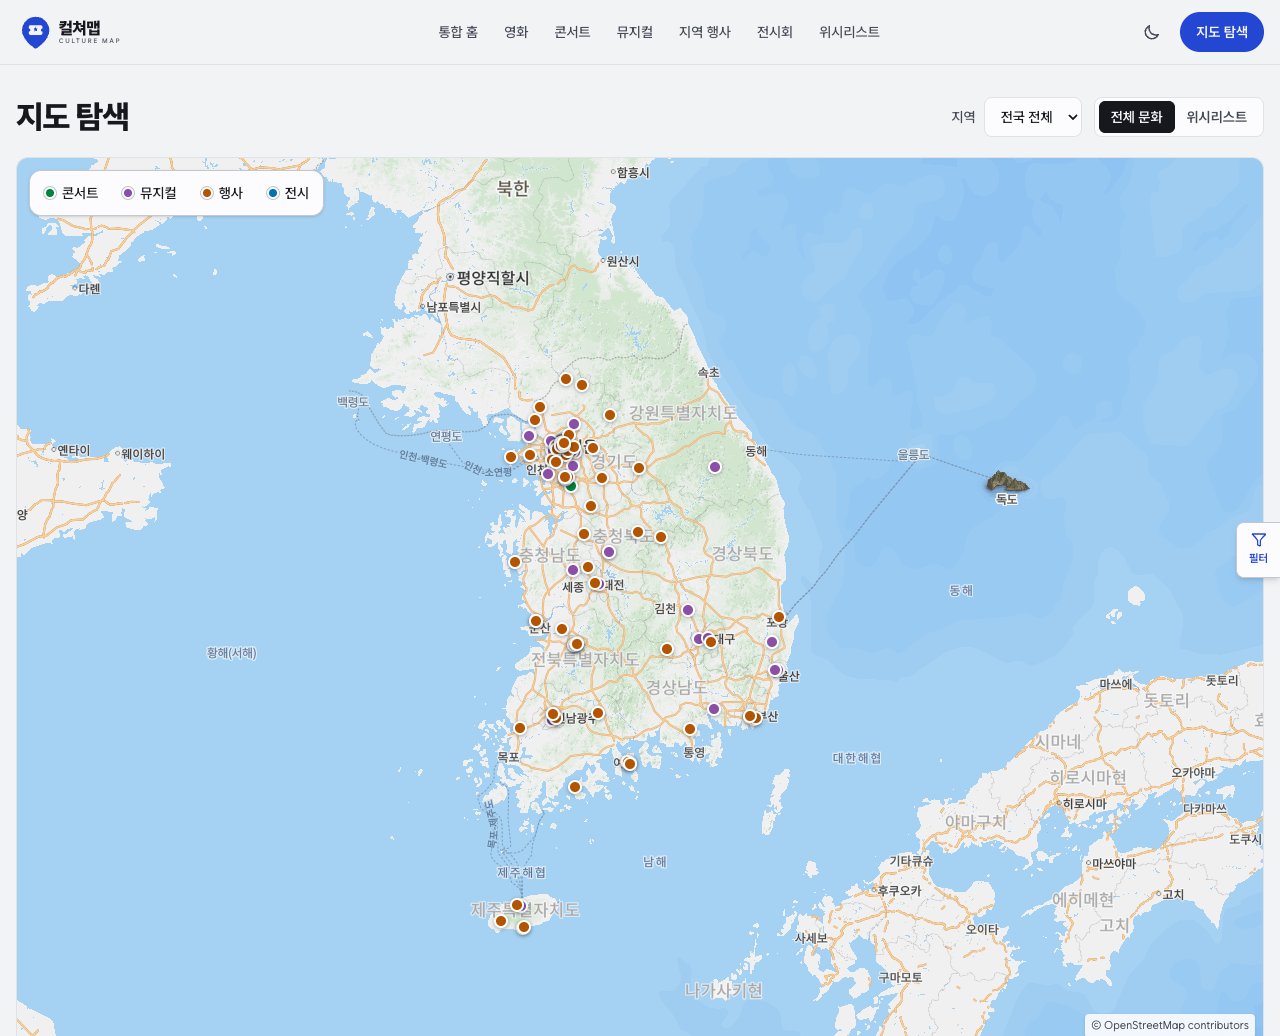
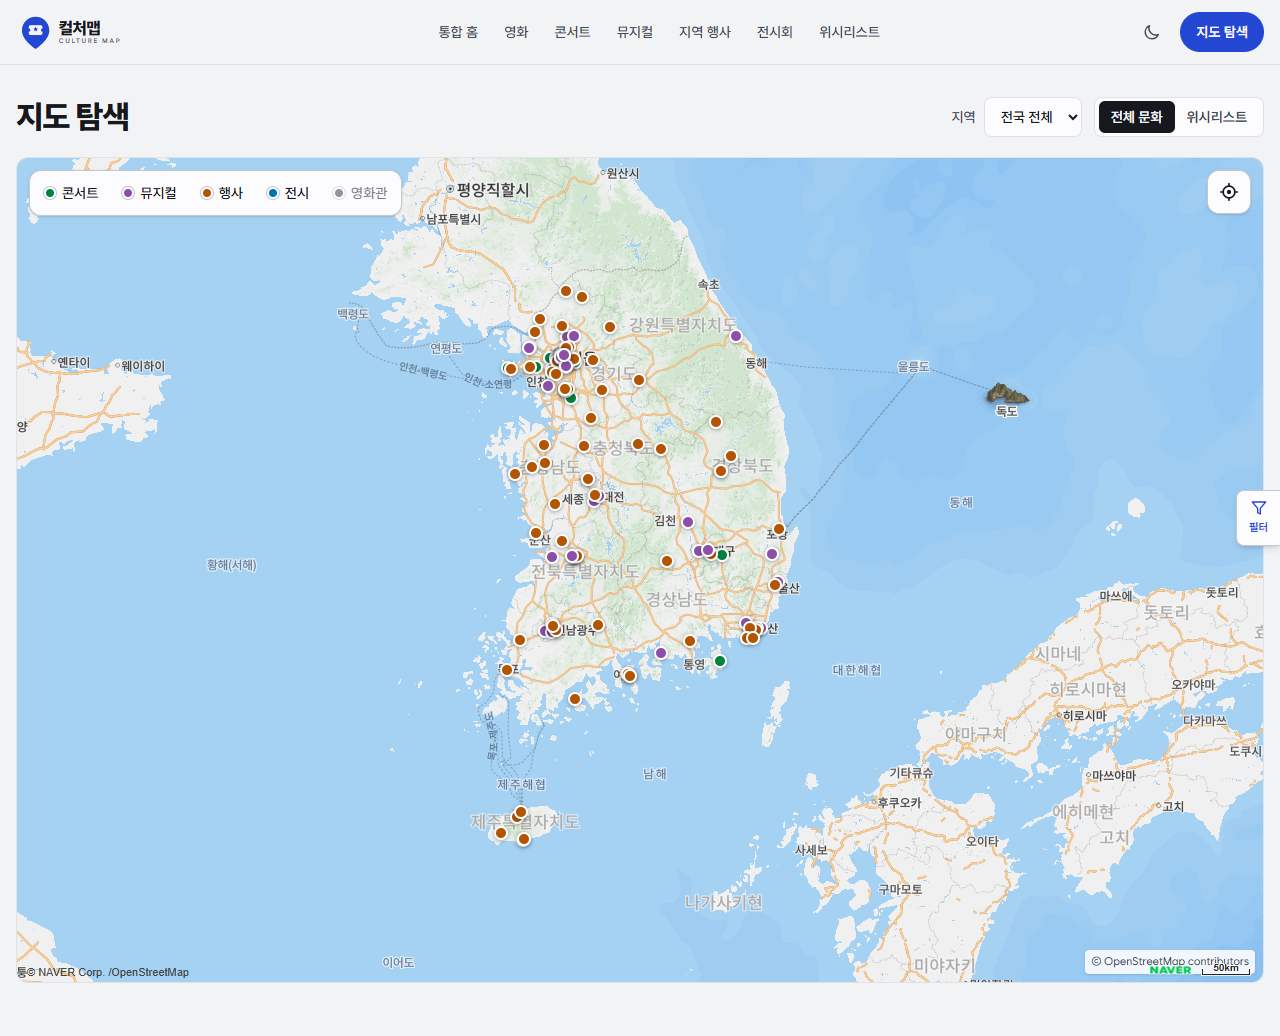
docs: 화면 캡처·와이어프레임을 컬처맵 표기로 갱신하고 README 최종 검수
- 홈(라이트·다크), 지도, 모바일 영화 화면을 배포 사이트에서 다시 캡처
- 와이어프레임 로고 글자를 컬처맵으로 수정
- 지도 기능 설명 간략화, Geolocation·영화관 훅 반영, 상태 흐름도 라벨 정정

diff --git a/README.md b/README.md
@@ -18,10 +18,10 @@
 | `/musicals` | KOPIS 뮤지컬 일정, 가격, 예매처와 상세 링크를 확인합니다. |
 | `/festivals` | 한국관광콘텐츠랩 축제·행사 정보를 날짜와 지역 기준으로 탐색합니다. |
 | `/exhibitions` | 문화포털 문화예술공연 API에서 전시 일정과 관람료 정보를 확인합니다. |
-| `/map` | 전체 문화·위시리스트 모드를 전환하며 비영화 일정을 지도에서 탐색합니다. 콘서트·뮤지컬·축제·전시 카테고리를 복수 토글로 필터링하고, 지역 선택(서울·경기 등 9개 + 전체)으로 범위를 좁힐 수 있습니다. `영화관` 토글을 켜면 영업 중인 CGV·롯데시네마·메가박스·씨네Q 영화관 위치와 상영시간표 링크를 볼 수 있으며, 영화관은 지도를 확대(줌 13 이상)했을 때 화면 근처에 있는 곳만 그립니다. 오른쪽 위 위치 버튼으로 현재 내 위치 주변을 볼 수 있습니다. 좌표가 없으면 장소명·주소를 Photon으로 검색해 위치를 보완합니다. |
+| `/map` | 행사 일정을 지도에서 탐색합니다. 카테고리 복수 토글과 지역 선택(서울·경기 등 9개 + 전체)으로 범위를 좁히고, 위시리스트 모드에서는 저장한 일정만 봅니다. `영화관`을 켜면 CGV·롯데시네마·메가박스·씨네Q 위치와 상영시간표 링크를 보여 주며(지도를 확대했을 때 화면 근처만 표시), 오른쪽 위 버튼으로 내 위치 주변을 볼 수 있습니다. |
 | `/bookmarks` | 카드에서 저장한 문화 일정을 모아보고 위시리스트에서 제거합니다. |
 
-가격과 예매처는 제공 API에 값이 있을 때만 표시합니다. 지도는 영화 대신 영화관 위치를 표시하며(기본은 꺼짐), 데이터에 좌표가 없고 장소 검색에서도 찾지 못한 항목은 마커를 표시하지 않습니다.
+가격과 예매처는 제공 API에 값이 있을 때만 표시합니다. 좌표가 없는 장소는 장소명·주소로 위치를 찾아(Photon) 보완하고, 끝내 찾지 못한 항목은 지도에 표시하지 않습니다.
 
 ## 화면 구성
 
@@ -76,6 +76,7 @@
 - Zustand: 날짜 범위, 지역 필터, 선택 마커, 위시리스트 상태
 - `fast-xml-parser`: KOPIS XML 응답 파싱
 - Naver Maps JavaScript API: 지도와 마커
+- 브라우저 Geolocation API: 내 위치 보기
 - KOBIS, KOPIS, 한국관광콘텐츠랩 TourAPI, 문화포털 API, 행정안전부 영화상영관 API, Photon 지오코더
 - proj4: 영화상영관 TM 좌표를 위경도로 변환
 - JSON Server: 로컬 개발용 데이터 서버 스크립트
@@ -148,7 +149,7 @@ src/
 │   ├── common/          # 헤더, 네비게이션, 날짜 도크, 공통 UI
 │   ├── culture/         # 문화 카드, 목록, 정렬, 카테고리 페이지
 │   └── map/             # 지도, 마커, 상세 패널
-├── hooks/               # 문화 데이터와 Naver 지도 훅
+├── hooks/               # 문화·영화관 데이터, Naver 지도, 클라이언트 렌더링 확인 훅
 ├── store/               # Zustand 필터 및 위시리스트 상태
 └── utils/               # API 연결, 카테고리·지역 상수, 좌표 확인, 날짜, 표시 포맷
 ```
@@ -161,7 +162,7 @@ src/
 | `WeekStrip` | 홈 상단의 주간 날짜 띠입니다. 날짜·빠른 기간 선택으로 필터 상태의 시작일과 종료일을 바꿉니다. |
 | `CultureCategoryPage` | 카테고리 데이터와 정렬, 페이지네이션을 관리합니다. |
 | `DateRangeDock` | 화면 오른쪽(모바일은 아래쪽)에서 날짜 범위와 지역을 바꿉니다. |
-| `NaverMapContainer`, `MapMarker` | 카테고리 복수 토글 필터링(영화관은 직접 켰을 때만 표시), 보이는 항목 중 좌표 없는 항목 Photon 지오코딩, 줌에 따라 점과 핀으로 바뀌는 마커 렌더링을 처리합니다. |
+| `NaverMapContainer`, `MapMarker` | 카테고리 복수 토글 필터링, 좌표 없는 항목의 위치 검색(Photon), 줌에 따라 점과 핀으로 바뀌는 마커를 처리합니다. 영화관은 직접 켰을 때 확대된 화면 근처만 그리고, 내 위치 버튼으로 현재 위치를 표시합니다. |
 | `DetailPanel` | 선택한 마커의 일정, 장소, 가격, 상세 링크를 보여줍니다. 영화관은 상영관 수, 주소, 전화번호, 상영시간표 링크를 보여줍니다. |
 
 - 날짜 범위, 지역, 선택 마커는 Zustand로 여러 화면에서 공유합니다.
@@ -180,7 +181,7 @@ flowchart TB
 
     subgraph ServerState ["☁ 서버 상태 (TanStack Query)"]
         API[(공공 API\nKOBIS, KOPIS 등)]
-        CustomHook["useCultureData()\n데이터 캐싱 및 fetching"]:::server
+        CustomHook["useCultureData() · useMovieTheaters()\n데이터 캐싱 및 fetching"]:::server
         API -->|Fetch 응답| CustomHook
     end
 
@@ -205,7 +206,7 @@ flowchart TB
             DetailComp["DetailPanel"]:::local
         end
         
-        HeaderComp["DateRangeDock\n(헤더/날짜선택)"]:::local
+        HeaderComp["WeekStrip · DateRangeDock\n(날짜·지역 선택)"]:::local
     end
 
     CustomHook == "data, isLoading" ==> PageComp
@@ -268,5 +269,5 @@ flowchart TB
 
 ## 프로젝트 회고
 
-기관마다 다른 응답 형식과 필드 이름을 공통 문화 데이터로 정리하면서 API 응답 정규화와 오류 처리가 중요하다는 점을 배웠습니다. 화면 캡처(홈 라이트·다크, 지도, 모바일)는 `docs/` 폴더에 정리했으며, 앞으로는 자동화된 API·지도 상호작용 테스트를 보완하고, 장소 검색 결과의 정확도를 더 높이고 싶습니다.
+기관마다 다른 응답 형식과 필드 이름을 공통 문화 데이터로 정리하면서 API 응답 정규화와 오류 처리가 중요하다는 점을 배웠습니다. 앞으로는 자동화된 API·지도 상호작용 테스트를 보완하고, 장소 검색 결과의 정확도를 더 높이고 싶습니다.
 
